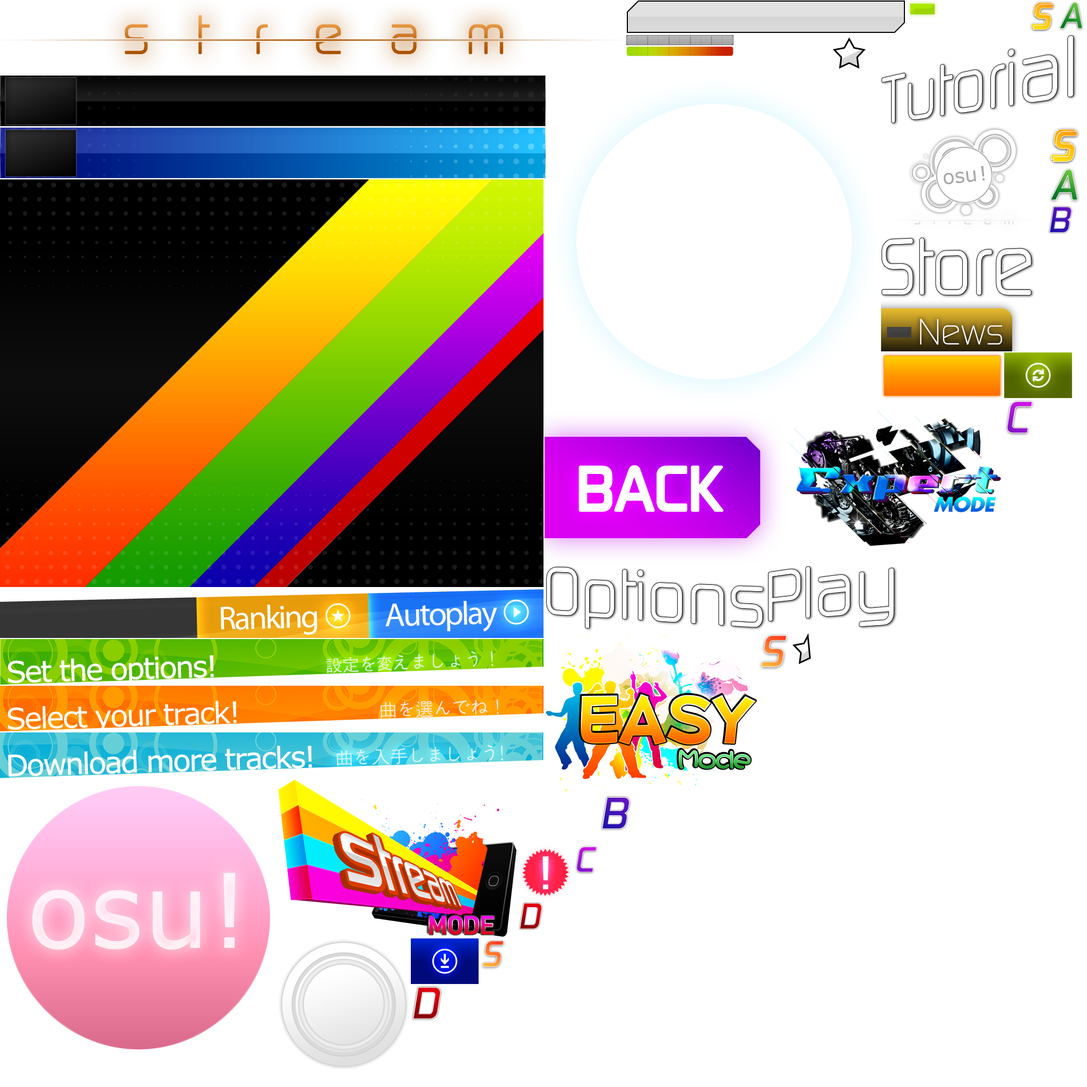
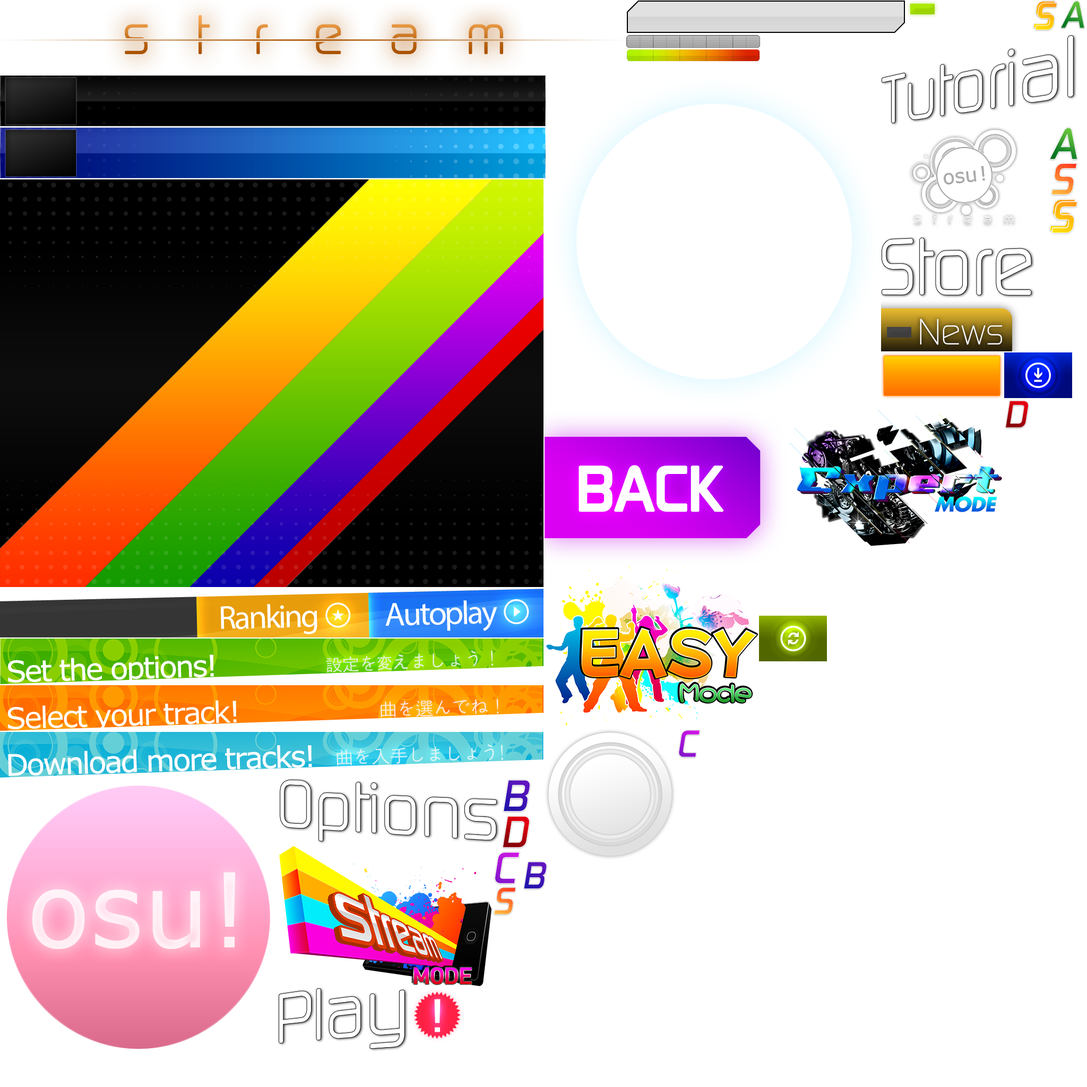
Bundled retina spritesheet changes.

diff --git a/osum/Graphics/TextureManager_Load.cs b/osum/Graphics/TextureManager_Load.cs
@@ -11,78 +11,78 @@ namespace osum.Graphics.Skins
             textureLocations.Add(OsuTexture.scorebar_colour, new SpriteSheetTexture("hit", 1026, 60, 646, 14));
             textureLocations.Add(OsuTexture.spinner_circle, new SpriteSheetTexture("hit", 1026, 76, 616, 616));
             textureLocations.Add(OsuTexture.countdown_background, new SpriteSheetTexture("hit", 0, 1510, 545, 203));
-            textureLocations.Add(OsuTexture.spinner_clear, new SpriteSheetTexture("hit", 0, 1715, 500, 176));
+            textureLocations.Add(OsuTexture.spinner_clear, new SpriteSheetTexture("hit", 0, 1715, 510, 168));
             textureLocations.Add(OsuTexture.countdown_ready, new SpriteSheetTexture("hit", 1026, 694, 422, 90));
             textureLocations.Add(OsuTexture.failed, new SpriteSheetTexture("hit", 1644, 76, 388, 118));
-            textureLocations.Add(OsuTexture.spinner_spin, new SpriteSheetTexture("hit", 1026, 786, 386, 176));
+            textureLocations.Add(OsuTexture.spinner_spin, new SpriteSheetTexture("hit", 1026, 786, 382, 170));
             textureLocations.Add(OsuTexture.demo, new SpriteSheetTexture("hit", 1644, 196, 350, 124));
             textureLocations.Add(OsuTexture.stream_changing_up, new SpriteSheetTexture("hit", 1644, 322, 322, 194));
-            textureLocations.Add(OsuTexture.stream_changing_down, new SpriteSheetTexture("hit", 1026, 964, 322, 182));
+            textureLocations.Add(OsuTexture.stream_changing_down, new SpriteSheetTexture("hit", 1026, 958, 322, 182));
             textureLocations.Add(OsuTexture.play_menu_continue, new SpriteSheetTexture("hit", 547, 1510, 316, 152));
             textureLocations.Add(OsuTexture.play_menu_quit, new SpriteSheetTexture("hit", 1450, 694, 316, 152));
             textureLocations.Add(OsuTexture.play_menu_restart, new SpriteSheetTexture("hit", 1644, 518, 316, 152));
-            textureLocations.Add(OsuTexture.countdown_go, new SpriteSheetTexture("hit", 1026, 1148, 314, 144));
-            textureLocations.Add(OsuTexture.sliderfollowcircle, new SpriteSheetTexture("hit", 547, 1664, 256, 256));
-            textureLocations.Add(OsuTexture.stream_changing_arrow, new SpriteSheetTexture("hit", 1414, 848, 200, 266));
-            textureLocations.Add(OsuTexture.hit300g, new SpriteSheetTexture("hit", 1026, 1294, 190, 190));
+            textureLocations.Add(OsuTexture.countdown_go, new SpriteSheetTexture("hit", 0, 1885, 314, 144));
+            textureLocations.Add(OsuTexture.sliderfollowcircle, new SpriteSheetTexture("hit", 1026, 1142, 256, 256));
+            textureLocations.Add(OsuTexture.stream_changing_arrow, new SpriteSheetTexture("hit", 547, 1664, 200, 266));
+            textureLocations.Add(OsuTexture.hit300g, new SpriteSheetTexture("hit", 1410, 848, 190, 190));
             textureLocations.Add(OsuTexture.hit300k, new SpriteSheetTexture("hit", 865, 1510, 190, 190));
-            textureLocations.Add(OsuTexture.hit300, new SpriteSheetTexture("hit", 1768, 672, 188, 190));
-            textureLocations.Add(OsuTexture.hit100, new SpriteSheetTexture("hit", 1342, 1148, 180, 180));
-            textureLocations.Add(OsuTexture.hit100k, new SpriteSheetTexture("hit", 805, 1702, 180, 180));
-            textureLocations.Add(OsuTexture.holdoverlay, new SpriteSheetTexture("hit", 1057, 1486, 158, 158));
-            textureLocations.Add(OsuTexture.countdown_2, new SpriteSheetTexture("hit", 1616, 864, 158, 142));
-            textureLocations.Add(OsuTexture.countdown_3, new SpriteSheetTexture("hit", 0, 1893, 158, 138));
-            textureLocations.Add(OsuTexture.hit0, new SpriteSheetTexture("hit", 1616, 1008, 152, 148));
-            textureLocations.Add(OsuTexture.hit50, new SpriteSheetTexture("hit", 160, 1893, 132, 132));
+            textureLocations.Add(OsuTexture.hit300, new SpriteSheetTexture("hit", 1284, 1142, 188, 190));
+            textureLocations.Add(OsuTexture.hit100, new SpriteSheetTexture("hit", 1602, 848, 180, 180));
+            textureLocations.Add(OsuTexture.hit100k, new SpriteSheetTexture("hit", 749, 1702, 180, 180));
+            textureLocations.Add(OsuTexture.holdoverlay, new SpriteSheetTexture("hit", 1057, 1400, 160, 160));
+            textureLocations.Add(OsuTexture.countdown_2, new SpriteSheetTexture("hit", 316, 1885, 158, 142));
+            textureLocations.Add(OsuTexture.countdown_3, new SpriteSheetTexture("hit", 1768, 672, 158, 138));
+            textureLocations.Add(OsuTexture.hit0, new SpriteSheetTexture("hit", 1474, 1040, 152, 148));
+            textureLocations.Add(OsuTexture.hit50, new SpriteSheetTexture("hit", 1284, 1334, 132, 132));
             textureLocations.Add(OsuTexture.tracks, new SpriteSheetTexture("hit", 1732, 0, 132, 16));
-            textureLocations.Add(OsuTexture.hitcircle0, new SpriteSheetTexture("hit", 294, 1893, 128, 128));
-            textureLocations.Add(OsuTexture.hitcircle1, new SpriteSheetTexture("hit", 1776, 864, 128, 128));
-            textureLocations.Add(OsuTexture.hitcircle2, new SpriteSheetTexture("hit", 1218, 1330, 128, 128));
-            textureLocations.Add(OsuTexture.hitcircle3, new SpriteSheetTexture("hit", 1218, 1460, 128, 128));
-            textureLocations.Add(OsuTexture.sliderb_0, new SpriteSheetTexture("hit", 424, 1893, 120, 120));
-            textureLocations.Add(OsuTexture.sliderb_1, new SpriteSheetTexture("hit", 1348, 1330, 120, 120));
-            textureLocations.Add(OsuTexture.sliderb_2, new SpriteSheetTexture("hit", 805, 1884, 120, 120));
-            textureLocations.Add(OsuTexture.sliderb_3, new SpriteSheetTexture("hit", 987, 1702, 120, 120));
-            textureLocations.Add(OsuTexture.sliderb_4, new SpriteSheetTexture("hit", 1776, 994, 120, 120));
-            textureLocations.Add(OsuTexture.sliderb_5, new SpriteSheetTexture("hit", 1906, 864, 120, 120));
-            textureLocations.Add(OsuTexture.sliderb_6, new SpriteSheetTexture("hit", 1524, 1158, 120, 120));
-            textureLocations.Add(OsuTexture.sliderb_7, new SpriteSheetTexture("hit", 1348, 1452, 120, 120));
-            textureLocations.Add(OsuTexture.sliderb_8, new SpriteSheetTexture("hit", 1470, 1330, 120, 120));
-            textureLocations.Add(OsuTexture.sliderb_9, new SpriteSheetTexture("hit", 1646, 1158, 120, 120));
-            textureLocations.Add(OsuTexture.sliderballoverlay, new SpriteSheetTexture("hit", 1866, 0, 118, 72));
-            textureLocations.Add(OsuTexture.holdactive, new SpriteSheetTexture("hit", 546, 1922, 108, 108));
-            textureLocations.Add(OsuTexture.holdinactive, new SpriteSheetTexture("hit", 656, 1922, 108, 108));
-            textureLocations.Add(OsuTexture.countdown_1, new SpriteSheetTexture("hit", 1958, 672, 86, 134));
-            textureLocations.Add(OsuTexture.sliderarrow, new SpriteSheetTexture("hit", 1968, 322, 78, 58));
-            textureLocations.Add(OsuTexture.scorebar_marker_hit, new SpriteSheetTexture("hit", 1968, 382, 76, 76));
-            textureLocations.Add(OsuTexture.finger_outer, new SpriteSheetTexture("hit", 1968, 460, 74, 74));
+            textureLocations.Add(OsuTexture.hitcircle0, new SpriteSheetTexture("hit", 1057, 1562, 128, 128));
+            textureLocations.Add(OsuTexture.hitcircle1, new SpriteSheetTexture("hit", 1784, 812, 128, 128));
+            textureLocations.Add(OsuTexture.hitcircle2, new SpriteSheetTexture("hit", 749, 1884, 128, 128));
+            textureLocations.Add(OsuTexture.hitcircle3, new SpriteSheetTexture("hit", 931, 1702, 128, 128));
+            textureLocations.Add(OsuTexture.holdactive, new SpriteSheetTexture("hit", 1928, 672, 118, 118));
+            textureLocations.Add(OsuTexture.holdinactive, new SpriteSheetTexture("hit", 1474, 1190, 118, 118));
+            textureLocations.Add(OsuTexture.sliderb_0, new SpriteSheetTexture("hit", 1628, 1030, 118, 118));
+            textureLocations.Add(OsuTexture.sliderb_1, new SpriteSheetTexture("hit", 1928, 792, 118, 118));
+            textureLocations.Add(OsuTexture.sliderb_2, new SpriteSheetTexture("hit", 1784, 942, 118, 118));
+            textureLocations.Add(OsuTexture.sliderb_3, new SpriteSheetTexture("hit", 1187, 1562, 118, 118));
+            textureLocations.Add(OsuTexture.sliderb_4, new SpriteSheetTexture("hit", 1418, 1334, 118, 118));
+            textureLocations.Add(OsuTexture.sliderb_5, new SpriteSheetTexture("hit", 931, 1832, 118, 118));
+            textureLocations.Add(OsuTexture.sliderb_6, new SpriteSheetTexture("hit", 1061, 1692, 118, 118));
+            textureLocations.Add(OsuTexture.sliderb_7, new SpriteSheetTexture("hit", 1628, 1150, 118, 118));
+            textureLocations.Add(OsuTexture.sliderb_8, new SpriteSheetTexture("hit", 1914, 912, 118, 118));
+            textureLocations.Add(OsuTexture.sliderb_9, new SpriteSheetTexture("hit", 1748, 1062, 118, 118));
+            textureLocations.Add(OsuTexture.sliderballoverlay, new SpriteSheetTexture("hit", 1866, 0, 118, 74));
+            textureLocations.Add(OsuTexture.countdown_1, new SpriteSheetTexture("hit", 1187, 1682, 86, 134));
+            textureLocations.Add(OsuTexture.scorebar_marker_hit, new SpriteSheetTexture("hit", 1968, 322, 78, 78));
+            textureLocations.Add(OsuTexture.sliderarrow, new SpriteSheetTexture("hit", 1968, 402, 78, 58));
+            textureLocations.Add(OsuTexture.finger_outer, new SpriteSheetTexture("hit", 1968, 462, 74, 74));
             textureLocations.Add(OsuTexture.score_percent, new SpriteSheetTexture("hit", 1732, 18, 60, 48));
             textureLocations.Add(OsuTexture.finger_inner, new SpriteSheetTexture("hit", 1986, 0, 58, 58));
             textureLocations.Add(OsuTexture.default_0, new SpriteSheetTexture("hit", 1794, 18, 54, 40));
-            textureLocations.Add(OsuTexture.default_2, new SpriteSheetTexture("hit", 1350, 964, 54, 40));
-            textureLocations.Add(OsuTexture.default_3, new SpriteSheetTexture("hit", 1350, 1006, 54, 40));
-            textureLocations.Add(OsuTexture.default_4, new SpriteSheetTexture("hit", 1350, 1048, 54, 40));
-            textureLocations.Add(OsuTexture.default_5, new SpriteSheetTexture("hit", 1350, 1090, 54, 40));
-            textureLocations.Add(OsuTexture.default_6, new SpriteSheetTexture("hit", 1962, 536, 54, 40));
-            textureLocations.Add(OsuTexture.default_7, new SpriteSheetTexture("hit", 1962, 578, 54, 40));
-            textureLocations.Add(OsuTexture.default_8, new SpriteSheetTexture("hit", 1962, 620, 54, 40));
-            textureLocations.Add(OsuTexture.default_9, new SpriteSheetTexture("hit", 1057, 1646, 54, 40));
+            textureLocations.Add(OsuTexture.default_2, new SpriteSheetTexture("hit", 1350, 958, 54, 40));
+            textureLocations.Add(OsuTexture.default_3, new SpriteSheetTexture("hit", 1350, 1000, 54, 40));
+            textureLocations.Add(OsuTexture.default_4, new SpriteSheetTexture("hit", 476, 1885, 54, 40));
+            textureLocations.Add(OsuTexture.default_5, new SpriteSheetTexture("hit", 1350, 1042, 54, 40));
+            textureLocations.Add(OsuTexture.default_6, new SpriteSheetTexture("hit", 476, 1927, 54, 40));
+            textureLocations.Add(OsuTexture.default_7, new SpriteSheetTexture("hit", 1350, 1084, 54, 40));
+            textureLocations.Add(OsuTexture.default_8, new SpriteSheetTexture("hit", 476, 1969, 54, 40));
+            textureLocations.Add(OsuTexture.default_9, new SpriteSheetTexture("hit", 1406, 1040, 54, 40));
             textureLocations.Add(OsuTexture.pausebutton, new SpriteSheetTexture("hit", 1996, 196, 48, 48));
-            textureLocations.Add(OsuTexture.score_0, new SpriteSheetTexture("hit", 502, 1715, 42, 48));
-            textureLocations.Add(OsuTexture.mouse_burst, new SpriteSheetTexture("hit", 1996, 246, 38, 38));
-            textureLocations.Add(OsuTexture.score_6, new SpriteSheetTexture("hit", 502, 1765, 36, 48));
-            textureLocations.Add(OsuTexture.score_8, new SpriteSheetTexture("hit", 502, 1815, 36, 48));
-            textureLocations.Add(OsuTexture.score_9, new SpriteSheetTexture("hit", 766, 1922, 36, 48));
-            textureLocations.Add(OsuTexture.score_x, new SpriteSheetTexture("hit", 766, 1972, 36, 48));
-            textureLocations.Add(OsuTexture.score_2, new SpriteSheetTexture("hit", 1414, 786, 34, 48));
-            textureLocations.Add(OsuTexture.score_3, new SpriteSheetTexture("hit", 1113, 1646, 34, 48));
-            textureLocations.Add(OsuTexture.score_4, new SpriteSheetTexture("hit", 1958, 808, 34, 48));
-            textureLocations.Add(OsuTexture.score_5, new SpriteSheetTexture("hit", 1149, 1646, 34, 48));
-            textureLocations.Add(OsuTexture.score_7, new SpriteSheetTexture("hit", 1994, 808, 34, 48));
-            textureLocations.Add(OsuTexture.scorebar_marker, new SpriteSheetTexture("hit", 2018, 536, 24, 40));
-            textureLocations.Add(OsuTexture.score_1, new SpriteSheetTexture("hit", 2018, 578, 20, 48));
-            textureLocations.Add(OsuTexture.sliderscorepoint, new SpriteSheetTexture("hit", 1996, 286, 20, 18));
-            textureLocations.Add(OsuTexture.score_dot, new SpriteSheetTexture("hit", 1217, 1590, 16, 50));
+            textureLocations.Add(OsuTexture.score_0, new SpriteSheetTexture("hit", 1996, 246, 42, 48));
+            textureLocations.Add(OsuTexture.mouse_burst, new SpriteSheetTexture("hit", 1410, 786, 38, 38));
+            textureLocations.Add(OsuTexture.score_6, new SpriteSheetTexture("hit", 532, 1932, 36, 48));
+            textureLocations.Add(OsuTexture.score_8, new SpriteSheetTexture("hit", 1406, 1082, 36, 48));
+            textureLocations.Add(OsuTexture.score_9, new SpriteSheetTexture("hit", 570, 1932, 36, 48));
+            textureLocations.Add(OsuTexture.score_x, new SpriteSheetTexture("hit", 1962, 538, 36, 48));
+            textureLocations.Add(OsuTexture.score_2, new SpriteSheetTexture("hit", 532, 1982, 34, 48));
+            textureLocations.Add(OsuTexture.score_3, new SpriteSheetTexture("hit", 2000, 538, 34, 48));
+            textureLocations.Add(OsuTexture.score_4, new SpriteSheetTexture("hit", 608, 1932, 34, 48));
+            textureLocations.Add(OsuTexture.score_5, new SpriteSheetTexture("hit", 568, 1982, 34, 48));
+            textureLocations.Add(OsuTexture.score_7, new SpriteSheetTexture("hit", 1962, 588, 34, 48));
+            textureLocations.Add(OsuTexture.scorebar_marker, new SpriteSheetTexture("hit", 512, 1715, 24, 40));
+            textureLocations.Add(OsuTexture.score_1, new SpriteSheetTexture("hit", 512, 1757, 20, 48));
+            textureLocations.Add(OsuTexture.sliderscorepoint, new SpriteSheetTexture("hit", 1410, 826, 20, 18));
+            textureLocations.Add(OsuTexture.score_dot, new SpriteSheetTexture("hit", 512, 1807, 16, 50));
             textureLocations.Add(OsuTexture.score_comma, new SpriteSheetTexture("hit", 1850, 18, 14, 52));
             textureLocations.Add(OsuTexture.default_1, new SpriteSheetTexture("hit", 2034, 60, 12, 40));
             textureLocations.Add(OsuTexture.followpoint, new SpriteSheetTexture("hit", 1674, 60, 12, 12));
@@ -92,67 +92,65 @@ namespace osum.Graphics.Skins
             textureLocations.Add(OsuTexture.songselect_panel, new SpriteSheetTexture("menu", 0, 142, 1028, 96));
             textureLocations.Add(OsuTexture.songselect_panel_selected, new SpriteSheetTexture("menu", 0, 240, 1028, 96));
             textureLocations.Add(OsuTexture.songselect_background, new SpriteSheetTexture("menu", 0, 338, 1024, 768));
-            textureLocations.Add(OsuTexture.songselect_footer, new SpriteSheetTexture("menu", 0, 1108, 1024, 94));
-            textureLocations.Add(OsuTexture.options_header, new SpriteSheetTexture("menu", 0, 1204, 1024, 86));
-            textureLocations.Add(OsuTexture.songselect_header, new SpriteSheetTexture("menu", 0, 1292, 1024, 86));
-            textureLocations.Add(OsuTexture.store_header, new SpriteSheetTexture("menu", 0, 1380, 1024, 86));
+            textureLocations.Add(OsuTexture.songselect_footer, new SpriteSheetTexture("menu", 0, 1108, 1024, 93));
+            textureLocations.Add(OsuTexture.options_header, new SpriteSheetTexture("menu", 0, 1203, 1024, 86));
+            textureLocations.Add(OsuTexture.songselect_header, new SpriteSheetTexture("menu", 0, 1291, 1024, 86));
+            textureLocations.Add(OsuTexture.store_header, new SpriteSheetTexture("menu", 0, 1379, 1024, 86));
             textureLocations.Add(OsuTexture.menu_gloss, new SpriteSheetTexture("menu", 1030, 142, 628, 628));
             textureLocations.Add(OsuTexture.sliderbar, new SpriteSheetTexture("menu", 1180, 0, 526, 64));
-            textureLocations.Add(OsuTexture.menu_osu, new SpriteSheetTexture("menu", 0, 1468, 522, 522));
+            textureLocations.Add(OsuTexture.menu_osu, new SpriteSheetTexture("menu", 0, 1467, 522, 522));
             textureLocations.Add(OsuTexture.backbutton, new SpriteSheetTexture("menu", 1026, 772, 458, 292));
-            textureLocations.Add(OsuTexture.songselect_mode_stream, new SpriteSheetTexture("menu", 524, 1468, 450, 298));
-            textureLocations.Add(OsuTexture.menu_options, new SpriteSheetTexture("menu", 1026, 1066, 418, 124));
-            textureLocations.Add(OsuTexture.songselect_mode_easy, new SpriteSheetTexture("menu", 1026, 1192, 400, 304));
-            textureLocations.Add(OsuTexture.songselect_mode_expert, new SpriteSheetTexture("menu", 1486, 772, 400, 258));
+            textureLocations.Add(OsuTexture.menu_options, new SpriteSheetTexture("menu", 524, 1467, 418, 124));
+            textureLocations.Add(OsuTexture.songselect_mode_easy, new SpriteSheetTexture("menu", 1026, 1066, 402, 304));
+            textureLocations.Add(OsuTexture.songselect_mode_stream, new SpriteSheetTexture("menu", 524, 1593, 402, 266));
+            textureLocations.Add(OsuTexture.songselect_mode_expert, new SpriteSheetTexture("menu", 1486, 772, 402, 258));
             textureLocations.Add(OsuTexture.menu_tutorial, new SpriteSheetTexture("menu", 1660, 66, 372, 170));
             textureLocations.Add(OsuTexture.menu_logo, new SpriteSheetTexture("menu", 1660, 238, 312, 206));
             textureLocations.Add(OsuTexture.menu_store, new SpriteSheetTexture("menu", 1660, 446, 292, 116));
             textureLocations.Add(OsuTexture.news_button, new SpriteSheetTexture("menu", 1660, 564, 264, 98));
-            textureLocations.Add(OsuTexture.menu_circle, new SpriteSheetTexture("menu", 524, 1768, 248, 248));
-            textureLocations.Add(OsuTexture.menu_play, new SpriteSheetTexture("menu", 1446, 1066, 246, 120));
+            textureLocations.Add(OsuTexture.difficulty_bar_bg, new SpriteSheetTexture("menu", 1180, 66, 252, 24));
+            textureLocations.Add(OsuTexture.difficulty_bar_colour, new SpriteSheetTexture("menu", 1180, 92, 252, 24));
+            textureLocations.Add(OsuTexture.menu_circle, new SpriteSheetTexture("menu", 1026, 1372, 248, 248));
+            textureLocations.Add(OsuTexture.menu_play, new SpriteSheetTexture("menu", 524, 1861, 246, 120));
             textureLocations.Add(OsuTexture.songselect_store_buy_background, new SpriteSheetTexture("menu", 1660, 664, 230, 88));
-            textureLocations.Add(OsuTexture.difficulty_bar_bg, new SpriteSheetTexture("menu", 1180, 66, 202, 19));
-            textureLocations.Add(OsuTexture.difficulty_bar_colour, new SpriteSheetTexture("menu", 1180, 87, 202, 19));
-            textureLocations.Add(OsuTexture.songselect_video, new SpriteSheetTexture("menu", 1384, 66, 180, 54));
-            textureLocations.Add(OsuTexture.songselect_songinfo, new SpriteSheetTexture("menu", 976, 1498, 152, 92));
-            textureLocations.Add(OsuTexture.songselect_thumb_dl, new SpriteSheetTexture("menu", 774, 1768, 128, 86));
-            textureLocations.Add(OsuTexture.songselect_thumb_restore, new SpriteSheetTexture("menu", 1892, 664, 128, 86));
-            textureLocations.Add(OsuTexture.new_notify, new SpriteSheetTexture("menu", 976, 1592, 104, 104));
+            textureLocations.Add(OsuTexture.songselect_video, new SpriteSheetTexture("menu", 1434, 66, 180, 56));
+            textureLocations.Add(OsuTexture.songselect_songinfo, new SpriteSheetTexture("menu", 1430, 1066, 152, 92));
+            textureLocations.Add(OsuTexture.songselect_thumb_dl, new SpriteSheetTexture("menu", 1892, 664, 128, 86));
+            textureLocations.Add(OsuTexture.songselect_thumb_restore, new SpriteSheetTexture("menu", 1430, 1160, 128, 86));
+            textureLocations.Add(OsuTexture.new_notify, new SpriteSheetTexture("menu", 772, 1861, 104, 104));
             textureLocations.Add(OsuTexture.backbutton_arrows1, new SpriteSheetTexture("menu", 1954, 446, 82, 96));
             textureLocations.Add(OsuTexture.backbutton_arrows2, new SpriteSheetTexture("menu", 1926, 564, 82, 96));
-            textureLocations.Add(OsuTexture.songselect_star, new SpriteSheetTexture("menu", 1566, 66, 68, 66));
-            textureLocations.Add(OsuTexture.rank_x_small, new SpriteSheetTexture("menu", 1974, 238, 62, 74));
-            textureLocations.Add(OsuTexture.rank_a_small, new SpriteSheetTexture("menu", 1974, 314, 62, 70));
-            textureLocations.Add(OsuTexture.rank_s_small, new SpriteSheetTexture("menu", 1428, 1192, 60, 72));
-            textureLocations.Add(OsuTexture.rank_b_small, new SpriteSheetTexture("menu", 1130, 1498, 60, 68));
-            textureLocations.Add(OsuTexture.rank_d_small, new SpriteSheetTexture("menu", 774, 1856, 60, 68));
+            textureLocations.Add(OsuTexture.rank_a_small, new SpriteSheetTexture("menu", 1974, 238, 60, 66));
+            textureLocations.Add(OsuTexture.rank_s_small, new SpriteSheetTexture("menu", 1974, 306, 60, 66));
             textureLocations.Add(OsuTexture.news_light, new SpriteSheetTexture("menu", 1708, 0, 60, 34));
-            textureLocations.Add(OsuTexture.rank_c_small, new SpriteSheetTexture("menu", 1892, 752, 58, 70));
-            textureLocations.Add(OsuTexture.songselect_audio_pause, new SpriteSheetTexture("menu", 1770, 0, 54, 54));
-            textureLocations.Add(OsuTexture.songselect_audio_play, new SpriteSheetTexture("menu", 1826, 0, 54, 54));
-            textureLocations.Add(OsuTexture.songselect_audio_preview, new SpriteSheetTexture("menu", 1882, 0, 54, 54));
-            textureLocations.Add(OsuTexture.rank_x_tiny, new SpriteSheetTexture("menu", 1938, 0, 52, 62));
-            textureLocations.Add(OsuTexture.rank_a_tiny, new SpriteSheetTexture("menu", 1992, 0, 52, 60));
-            textureLocations.Add(OsuTexture.rank_s_tiny, new SpriteSheetTexture("menu", 904, 1768, 50, 60));
-            textureLocations.Add(OsuTexture.rank_b_tiny, new SpriteSheetTexture("menu", 1974, 386, 48, 56));
-            textureLocations.Add(OsuTexture.rank_d_tiny, new SpriteSheetTexture("menu", 976, 1698, 48, 56));
-            textureLocations.Add(OsuTexture.rank_c_tiny, new SpriteSheetTexture("menu", 1082, 1592, 46, 56));
-            textureLocations.Add(OsuTexture.songselect_star_half, new SpriteSheetTexture("menu", 1490, 1188, 42, 66));
-            textureLocations.Add(OsuTexture.songselect_mode_arrow, new SpriteSheetTexture("menu", 1192, 1498, 38, 44));
-            textureLocations.Add(OsuTexture.menu_item_background, new SpriteSheetTexture("menu", 2038, 62, 4, 400));
+            textureLocations.Add(OsuTexture.rank_x_small, new SpriteSheetTexture("menu", 1974, 374, 58, 68));
+            textureLocations.Add(OsuTexture.rank_b_small, new SpriteSheetTexture("menu", 944, 1467, 58, 66));
+            textureLocations.Add(OsuTexture.rank_d_small, new SpriteSheetTexture("menu", 944, 1535, 58, 66));
+            textureLocations.Add(OsuTexture.songselect_audio_pause, new SpriteSheetTexture("menu", 1770, 0, 56, 56));
+            textureLocations.Add(OsuTexture.songselect_audio_play, new SpriteSheetTexture("menu", 1828, 0, 56, 56));
+            textureLocations.Add(OsuTexture.songselect_audio_preview, new SpriteSheetTexture("menu", 1886, 0, 56, 56));
+            textureLocations.Add(OsuTexture.rank_c_small, new SpriteSheetTexture("menu", 928, 1603, 54, 66));
+            textureLocations.Add(OsuTexture.rank_x_tiny, new SpriteSheetTexture("menu", 1944, 0, 50, 60));
+            textureLocations.Add(OsuTexture.rank_a_tiny, new SpriteSheetTexture("menu", 1996, 0, 50, 56));
+            textureLocations.Add(OsuTexture.rank_s_tiny, new SpriteSheetTexture("menu", 928, 1671, 50, 56));
+            textureLocations.Add(OsuTexture.rank_d_tiny, new SpriteSheetTexture("menu", 1892, 752, 48, 58));
+            textureLocations.Add(OsuTexture.rank_b_tiny, new SpriteSheetTexture("menu", 984, 1622, 48, 56));
+            textureLocations.Add(OsuTexture.rank_c_tiny, new SpriteSheetTexture("menu", 1276, 1372, 45, 58));
+            textureLocations.Add(OsuTexture.songselect_mode_arrow, new SpriteSheetTexture("menu", 1616, 66, 38, 44));
+            textureLocations.Add(OsuTexture.menu_item_background, new SpriteSheetTexture("menu", 2038, 58, 4, 400));
             textureLocations.Add(OsuTexture.notification_background, new SpriteSheetTexture("notification", 0, 0, 900, 514));
             textureLocations.Add(OsuTexture.notification_button_ok, new SpriteSheetTexture("notification", 0, 516, 500, 80));
             textureLocations.Add(OsuTexture.notification_button_no, new SpriteSheetTexture("notification", 0, 598, 360, 80));
             textureLocations.Add(OsuTexture.notification_button_yes, new SpriteSheetTexture("notification", 0, 680, 360, 80));
-            textureLocations.Add(OsuTexture.notification_button_toggle, new SpriteSheetTexture("notification", 0, 762, 86, 79));
+            textureLocations.Add(OsuTexture.notification_button_toggle, new SpriteSheetTexture("notification", 0, 762, 86, 80));
             textureLocations.Add(OsuTexture.ranking_footer, new SpriteSheetTexture("ranking", 0, 0, 1024, 94));
             textureLocations.Add(OsuTexture.ranking_background, new SpriteSheetTexture("ranking", 0, 96, 814, 528));
-            textureLocations.Add(OsuTexture.rank_x, new SpriteSheetTexture("ranking", 816, 96, 326, 390));
-            textureLocations.Add(OsuTexture.rank_a, new SpriteSheetTexture("ranking", 1144, 0, 326, 370));
-            textureLocations.Add(OsuTexture.rank_s, new SpriteSheetTexture("ranking", 816, 488, 306, 368));
-            textureLocations.Add(OsuTexture.rank_d, new SpriteSheetTexture("ranking", 1472, 0, 302, 346));
-            textureLocations.Add(OsuTexture.rank_b, new SpriteSheetTexture("ranking", 1144, 372, 300, 346));
-            textureLocations.Add(OsuTexture.rank_c, new SpriteSheetTexture("ranking", 1446, 372, 290, 356));
+            textureLocations.Add(OsuTexture.rank_x, new SpriteSheetTexture("ranking", 816, 96, 324, 380));
+            textureLocations.Add(OsuTexture.rank_a, new SpriteSheetTexture("ranking", 1142, 0, 318, 360));
+            textureLocations.Add(OsuTexture.rank_s, new SpriteSheetTexture("ranking", 816, 478, 308, 360));
+            textureLocations.Add(OsuTexture.rank_d, new SpriteSheetTexture("ranking", 1462, 0, 304, 352));
+            textureLocations.Add(OsuTexture.rank_b, new SpriteSheetTexture("ranking", 1142, 362, 300, 344));
+            textureLocations.Add(OsuTexture.rank_c, new SpriteSheetTexture("ranking", 1444, 362, 296, 358));
             textureLocations.Add(OsuTexture.personalbest, new SpriteSheetTexture("ranking", 0, 626, 206, 88));
         }
     }
